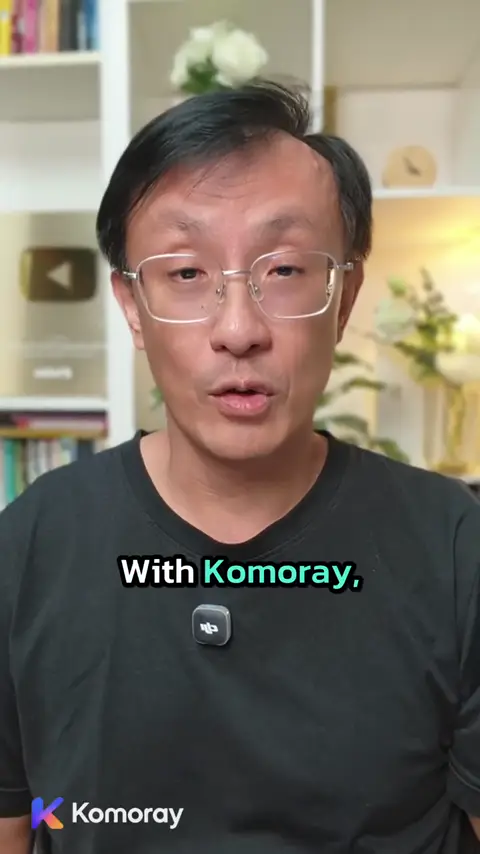
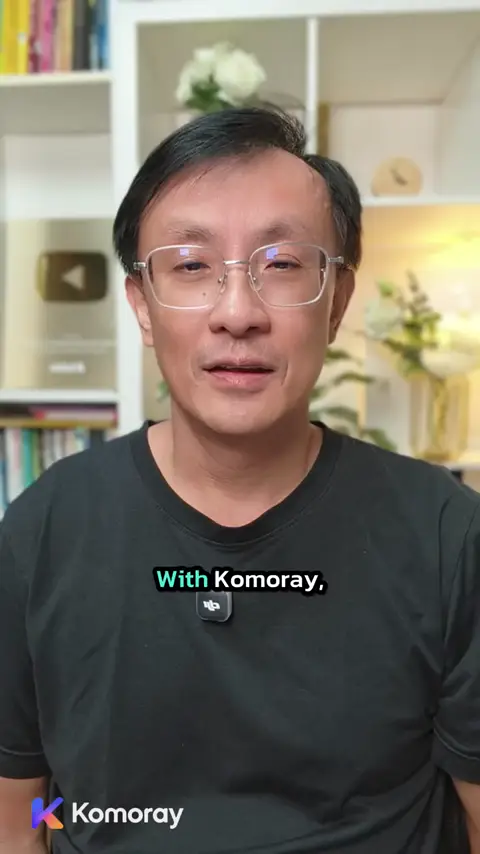
Home page: new After clip, Zoo with Family in the Layout card, Cutout card moves again
Coach, 25 Nov. After: site/home-after-v2.mp4 (its address carries &v=2, browsers keep clips a week).
Layout: the other part is the coach's zoo clip in place of the made-up feature picture.
Cutout: its clip was never loaded (a display:none video never counts as on screen), so the card was a still.
The new clips are in R2 under site/ (staging so far; the live bucket needs them before this goes live).

diff --git a/src/components/HomeMedia.tsx b/src/components/HomeMedia.tsx
@@ -10,9 +10,13 @@ import { supabaseBrowser } from "@/lib/supabase/browser";
 // The home page's own clips, all filmed by the coach (20 Nov: no AI-made pictures). They come through /api/home-video
 // because iPhones and iPads need HTTP Range, which static files here don't answer. Each loads only when it comes
 // near the screen and stops when it leaves, so the page stays light; reduced motion keeps the still picture.
-export type HomeClip = "before" | "after" | "words" | "frame" | "cutout" | "layout" | "zoom" | "banner";
+export type HomeClip = "before" | "after" | "words" | "frame" | "cutout" | "layout" | "zoo" | "zoom" | "banner";
 
 const still = (name: HomeClip) => `/landing/${name}-poster.webp`;
+// A clip that was replaced gets a new number here as well as its new file name (api/home-video): browsers keep what
+// an address gave them for a week.
+const CLIP_REV: Partial<Record<HomeClip, number>> = { after: 2 };
+const clipSrc = (name: HomeClip) => `/api/home-video?name=${name}${CLIP_REV[name] ? `&v=${CLIP_REV[name]}` : ""}`;
 
 // Plays while on screen. play: what to do once it is on screen (the After clip starts with sound).
 function useOnScreen(ref: React.RefObject<HTMLVideoElement | null>, name: HomeClip, play: (v: HTMLVideoElement) => void) {
@@ -22,7 +26,7 @@ function useOnScreen(ref: React.RefObject<HTMLVideoElement | null>, name: HomeCl
 		const seen = new IntersectionObserver(
 			([entry]) => {
 				if (entry.isIntersecting) {
-					if (!v.src) v.src = `/api/home-video?name=${name}`;
+					if (!v.src) v.src = clipSrc(name);
 					play(v);
 				} else v.pause();
 			},
@@ -157,7 +161,9 @@ export function CutoutVideo({ className }: { className?: string }) {
 
 	return (
 		<>
-			<video ref={ref} muted loop playsInline preload="none" style={{ display: "none" }} />
+			{/* Unseen, not display: none: a hidden video never counts as on screen, so it was never loaded and the card
+			    stayed a still picture (coach 25 Nov). */}
+			<video ref={ref} muted loop playsInline preload="none" aria-hidden style={{ position: "absolute", left: 0, top: 0, width: 1, height: 1, opacity: 0, pointerEvents: "none" }} />
 			<canvas ref={canvas} className={className} aria-hidden />
 			{!drawn && <Image className={className} src={still("cutout")} alt="" width={480} height={854} unoptimized />}
 		</>

diff --git a/src/app/landing.css b/src/app/landing.css
@@ -160,8 +160,10 @@ body:has(.k-root) > div:has(> button[role="switch"]) { display: none; }
 @keyframes k-slam { 0% { transform: translateY(-160%) scale(1.5); opacity: 0; } 12% { transform: translateY(0) scale(1); opacity: 1; } 100% { transform: translateY(0) scale(1); opacity: 1; } }
 @keyframes k-heart { 0%, 100% { transform: scale(1); } 18% { transform: scale(1.14); } 36% { transform: scale(1); } 54% { transform: scale(1.09); } }
 .k-layme, .k-layother { position: absolute; overflow: hidden; transition: all .5s cubic-bezier(.65,0,.2,1); }
-.k-layme img, .k-layother img, .k-layme video { position: absolute; inset: 0; width: 100%; height: 100%; object-fit: cover; }
-.k-layout .k-layother img { object-position: 50% 0; }
+.k-layme img, .k-layother img, .k-layme video, .k-layother video { position: absolute; inset: 0; width: 100%; height: 100%; object-fit: cover; }
+/* The other part is a wide clip (Zoo with Family, coach 25 Nov): cut so the family stays in, in both splits. */
+.k-layout-stack .k-layother video { object-position: 72% 50%; }
+.k-layout-side .k-layother video { object-position: 82% 50%; }
 .k-layout .k-layme video { object-position: 50% 28%; }
 .k-layme { inset: 0; }
 .k-layout-stack .k-layother { left: 0; right: 0; top: 50%; bottom: 0; transform: translateY(100%); }

diff --git a/src/app/api/home-video/route.ts b/src/app/api/home-video/route.ts
@@ -6,11 +6,12 @@ import { fetchObject } from "@/lib/r2";
 // since browsers keep these for a week. cutout: the picture on top, the person's matte below (LandingDemos).
 const FILES: Record<string, string> = {
 	before: "site/home-before-v1.mp4",
-	after: "site/home-after-v1.mp4",
+	after: "site/home-after-v2.mp4",
 	words: "site/home-words-v1.mp4",
 	frame: "site/home-frame-v1.mp4",
 	cutout: "site/home-cutout-v1.mp4",
 	layout: "site/home-layout-v1.mp4",
+	zoo: "site/home-zoo-v1.mp4",
 	zoom: "site/home-zoom-v1.mp4",
 	banner: "site/home-banner-v1.mp4",
 };

diff --git a/src/components/LandingDemos.tsx b/src/components/LandingDemos.tsx
@@ -324,7 +324,7 @@ export function LayoutCard() {
 						<LoopVideo name="layout" />
 					</div>
 					<div className="k-layother">
-						<Image src="/landing/layout-other-v2.webp" alt="" width={720} height={1004} unoptimized />
+						<LoopVideo name="zoo" />
 					</div>
 				</div>
 			</div>

diff --git a/docs/bugs.md b/docs/bugs.md
@@ -97,3 +97,4 @@
 | ให้พื้นหลังรูป / คลิปของ Frame Me เต็มจอ (cover) ได้อย่างเดียว, ให้รูปที่ไม่ได้ปรับ (`backSize` 1, `backX` / `backY` 0 หรือไม่มีช่อง) ไปเส้นทางใหม่, หรือแก้การวางฝั่งเดียว | ขอบรูปถูกตัด ย่อให้เห็นทั้งภาพไม่ได้ เพราะ Movement ย่อได้แค่ภาพที่ cover ตัดแล้ว (โค้ช 25 พ.ย.) · เส้นทางเดิมต้องคงไว้ คลิปเก่าจะได้เหมือนเดิมโดยไม่ต้องเปลี่ยน `RENDER_REV` (ทดสอบ 25 พ.ย. บน Modal: รูป, ซูม, คลิป ตรงกันทุกพิกเซล) | `frameBackPlace`, `wholeBackSize` ใน `src/lib/frame-me.ts`, `frame_filters` ใน `render.py`, `frameBack` ใน `PlayerFrame.tsx` |
 | แก้ Entire part ของ Zoom part ฝั่งเดียว, เปลี่ยนการซูมของ part ที่ไม่มี `whole`, กดเปลี่ยนชนิด / Zoom amount แล้วทำ `whole` หาย, หรือปิดแถบ Speed ของพื้นหลังตอนค่าเป็น 1x | ตัวอย่างกับคลิปจริงจะซูมคนละจังหวะ · part ที่ไม่ติ๊กต้องซูมจบใน `PART_GLIDE` เหมือนเดิม (คลิปเก่าไม่เปลี่ยน) · ของพื้นหลัง Entire part = Speed 1x ไม่เก็บช่องแยก ถ้าปิดแถบตอน 1x การลากผ่าน 1x จะค้าง (25 พ.ย.) | `ZoomPart.whole`, `partZoom` ใน `src/lib/zoom.ts`, `part_zoom_expr` ใน `render.py`, `BgMotionControl.tsx` |
 | ให้แถบ Amount ของการเคลื่อนไหวพื้นหลังหยุดที่ 0% ได้ หรือให้ Pan / Tilt เลื่อนต่ำกว่า 5% | 0% ทำให้ Zoom นิ่งสนิท และ Pan / Tilt ต่ำกว่า 5% ให้ผลเท่า 5% ทั้งหมด ผู้ใช้ลากแล้วไม่มีอะไรเปลี่ยน (โค้ช 25 พ.ย.) ค่าที่บันทึกไว้เดิมไม่ถูกแก้ · อย่าทำด้วยการเด้งค่า 0 ไป ±5% ใน onChange เพราะค่าจะกะพริบสลับตอนเมาส์ค้างที่ช่อง 0 | `BgMotionControl.tsx` |
+| ซ่อนวิดีโอหน้าแรกที่ต้องโหลดเมื่อโผล่บนจอด้วย `display: none` (หรือเปลี่ยนคลิปหน้าแรกโดยไม่เปลี่ยนชื่อไฟล์ใน R2 และ `CLIP_REV`) | ของที่ `display: none` ไม่เคยนับว่าอยู่บนจอ การ์ด Cutout จึงไม่โหลดคลิปและค้างเป็นภาพนิ่ง (20–25 พ.ย., โค้ชเจอ 25 พ.ย.) · เบราว์เซอร์จำคลิปตามที่อยู่ 7 วัน ใช้ที่อยู่เดิมคนเก่าจะยังเห็นคลิปเก่า | `CutoutVideo`, `CLIP_REV` ใน `src/components/HomeMedia.tsx`, `src/app/api/home-video/route.ts` |
